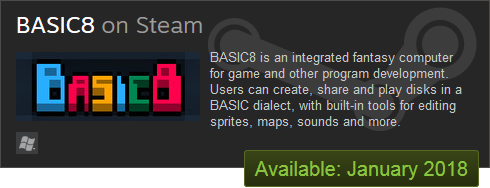
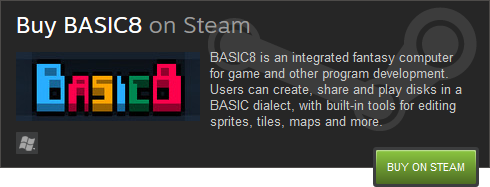
*available now.

diff --git a/README.md b/README.md
@@ -16,7 +16,7 @@ For the moment, BASIC8 is released for Windows only, however, there are plans to
 
 | FANTASY | COMPUTER |
 |----|----|
-| <img src="pages/imgs/app.png" width="256"> | BASIC8 is an integrated **fantasy computer** for game and other program development. Users can create, share and play disks in a BASIC dialect, with built-in tools for editing sprites, maps, sounds and more. |
+| <img src="pages/imgs/app.png" width="256"> | BASIC8 is an integrated **fantasy computer** for game and other program development. Users can create, share and play disks in a BASIC dialect, with built-in tools for editing sprites, tiles, maps and more. |
 
 It's been a while since people used to enjoy coding and playing straightforward after a computer bootup. The goal of BASIC8 is to bring a sense of joy back from retro/vintage computing and gaming, also be quick at getting higher level stuff done.
 
